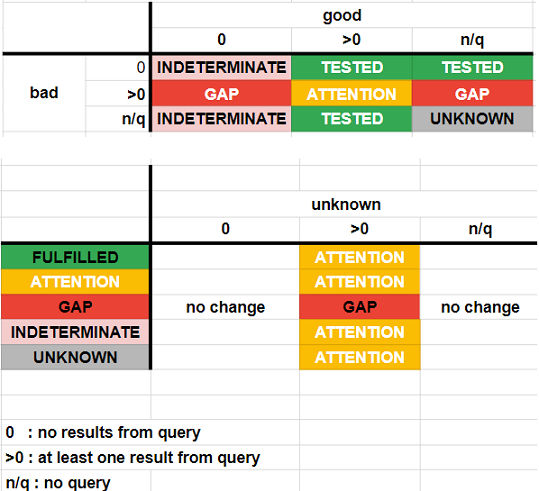
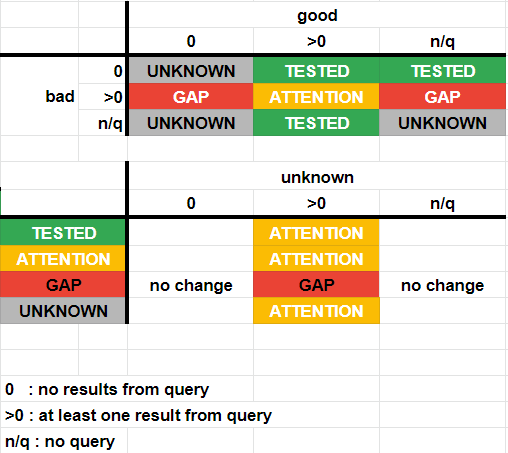
Update main (#342)
* graph-veracode -> graph-veracode-v2

* Copy edits

* update veracode docs

* renaming to pull in edits made in closed pr

* resolved merge conflicts and rolled back vera v2

* reimport veracode docs after graph-veracode update

* Add May 2nd Release Notes

* Add Janus release notes

* Updates from Henry

* fixed typo

* Add integrations release notes

* Minor edits

* Update and rename 2022-MAY-2.md to 2022-MAY-6.md

* Updating Compliance Documentation -Doc 77 (#335)

* DOC-77 DOC-78

* Updates

* New images.

* chips

* DOC-77 Updates

diff --git a/knowledgeBase/compliance_and-reporting/compliance-gap-analysis.md b/knowledgeBase/compliance_and-reporting/compliance-gap-analysis.md
@@ -1,25 +1,30 @@
 # Compliance Gap Analysis
 
-The J1 Compliance app performs automated gap analysis based on the queries saved in questions that you have added as evidence to meeting compliance. At any time, you can review where the gaps are in your compliance by clicking the information icon next to gap analysis in a selected framework.
+Compliance gaps are defined as deficiencies in the security framework of your organization between fulfilled compliance requirements and outstanding remediation.
 
-If you have access to the Compliance app, you have access to the gap analysis view. If you do not have access to the Compliance app, your J1 administrator can grant you access to the gaps table by adding a special, read-only permissions role to the group permissions for group to which you belong. With this role, you can see the compliance gap information but are not able to perform any other actions in the Compliance app.  
+Your compliance department, your compliance officer, or security lead decides the security frameworks with which your organization must be compliant. Frameworks comprise benchmarks, standards, and security questionnaires as part of your comprehensive compliance program. 
 
+You have compliance gaps when:
 
+- There is no external evidence (such as notes, links, file uploads) that you have completed a framework requirement.
+- There are J1QL question queries whose results show there is no evidence that a framework requirement is complete.
 
+At any time, you can review where the gaps are in your compliance by clicking the information icon next to gap analysis in a selected framework.
 
-![](../assets/compliance-gap-analysis.png)
+## Accessing Gap Analysis
 
-
+If you have access to J1 Compliance, you have access to the gap analysis view. If you do not have access to J1 Compliance, your J1 administrator can grant you access to the gaps table by adding a special, read-only permissions role to the group permissions for group to which you belong. With this role, you can see the compliance gap information but are not able to perform any other actions in J1 Compliance.  
 
 From the selected framework details view, click the filter icon next to the gap category to see where the gaps are in your compliance status. 
 
 
+
 ![](../assets/compliance-gaps.png)
 
-Each query in a saved question has a property to indicate whether the results from the query are good, bad, unknown, or informative. You can configure this property in the 
-J1Query Language app UI or via the J1 API.
 
-At the API level, this is set with the `resultsAre` property. For example:
+Each query in a saved question has a property to indicate whether the results from the query are good, bad, unknown, or informative. You can configure this property in the J1Query Language UI or via the J1 API.
+
+At the API level, this value is set with the `resultsAre` property. For example:
 
 ```yaml
 - id: managed-question-access-password-policy
@@ -49,8 +54,7 @@ At the API level, this is set with the `resultsAre` property. For example:
 
 ## Gap Analysis Queries
 
-Queries with the `resultsAre` property in a question that is mapped to a compliance
-requirement trigger automated gap analysis, as follows:
+Queries with the `resultsAre` property in a question that is mapped to a compliance requirement trigger automated gap analysis, as follows:
 
 - `GOOD`:
 
@@ -82,41 +86,6 @@ requirement trigger automated gap analysis, as follows:
   Find DataStore with classification=undefined
   ```
 
-`INFORMATIVE` queries are not used in compliance gap analysis.
+`INFORMATIVE` queries are not used in compliance gap analysis. A question can have one or all of the above named queries.
 
-A question can have one or all of the above named queries.
-
-## Gap Analysis Status
-
-The gap analysis status of each requirement of control can be one of the
-following:
-
-- `TESTED`
-
-  The requirement is fulfilled and monitoring.
-
-- `ATTENTION`
-
-  Potential remediation is needed because J1 has detected a potential gap, 
-  with a mix of properly configured resources and misconfigurations, such 
-  as partially fulfilled.
-
-- `GAP`
-
-  A control gap is detected with no properly configured resources identified.
-
-- `UNKNOWN`
-
-  Manual review is needed because J1 was unable to auto-determine the
-  status with the queries provided.
-
-  This status also appears when the requirement or control has no mapped query question _and_ no external evidence provided.
-
-The status is determined by the presence and output of the named queries in the
-mapped questions, as shown in this matrix:
-
-![](../assets/compliance-query-gap-analysis-status-2.png)
-
-
-
-**Note**: A single query in a question without the `resultsAre` property set is implicitly interpreted as a `GOOD` query.
+[Read more about gap analysis statuses](./compliance-status.md).

diff --git a/knowledgeBase/compliance_and-reporting/compliance-status.md b/knowledgeBase/compliance_and-reporting/compliance-status.md
@@ -1,0 +1,80 @@
+# Compliance Status and Maturity
+
+The J1 Compliance Status view provides measurements and status indicators at four different maturity levels for each compliance framework and its requirements and controls:
+
+- Documented policies and procedures
+- Implementation evidence, either via data-driven queries or external evidence
+- Gap analysis between fulfilled requirements and outstanding remediation
+- Continuous monitoring and remediation
+  
+
+![](../assets/compliance-summary-status-bars.png)
+
+
+
+## Status Symbols
+
+The J1 Compliance UI uses status symbols to help you quickly scan your compliance status view to see the level of compliance for each of the frameworks in your environment. Click any of the requirements under a framework to see those statuses.
+
+![](../assets/compliance-status-overview.png)
+
+
+
+### Requirements and Evidences Statuses
+
+Compliance is measured by requirements and evidence that you have met those requirements. The different statuses indicate where action and attention is needed.
+
+| Symbol                                   | Meaning                                  |
+| ---------------------------------------- | ---------------------------------------- |
+| ![](../assets/compliance-attention-white.png) | Potential remediation is needed because J1 has detected a potential gap in compliance. |
+| ![](../assets/compliance-evidences.png)  | Linked evidence files provide proof of compliance. |
+| ![](../assets/compliance-evidences-grey.png) | No linked evidence files to prove compliance. |
+| ![](../assets/compliance-unknown.png)    | A manual review of a compliance issue is necessary. |
+| ![](../assets/compliance-gap-white.png)  | There are [gaps in your compliance](../compliance-gap-table.md) that you must remove. |
+| ![](../assets/compliance-tested-white.png) | The framework requirement is complete and being monitoring. |
+| ![](../assets/compliance-unknown.png)    | A manual review of a compliance issue is necessary. |
+
+Click any of these symbols from the frameworks view to see more details about the status.
+
+If you see the ![](../assets/compliance-scoped.png)symbol next to a framework, it indicates that filters are applied to this framework to narrow the scope of what the linked evidence looks at.
+
+
+
+## Query Statuses
+
+If there are compliance gaps in the results of any of the queries in linked questions, these gaps also have color-coded statuses.
+
+| Symbol                                   | Meaning                                  |
+| ---------------------------------------- | ---------------------------------------- |
+| ![](../assets/compliance-attention-white2.png) | You may potentially have items to remediate |
+| ![](../assets/icons/compliance-gap-grey.png) | You must remove these gaps in your compliance |
+|                                          | All controls are in place and being monitored by J1 |
+| ![](../assets/icons/compliance-unknown-grey.png) | Manual review of a compliance issue is necessary |
+
+You can also use J1QL to query each framework requirement or control, which return similar statuses:
+
+- `TESTED`
+
+  The framework requirement is complete and being monitoring.
+
+- `ATTENTION`
+
+  Potential remediation is needed because J1 has detected a potential gap, with a mix of properly configured resources and misconfigurations, such as partially fulfilled.
+
+- `GAP`
+
+  A control gap is detected with no properly configured resources identified.
+
+- `UNKNOWN`
+
+  Manual review is needed because J1 was unable to auto-determine the status with the queries provided.
+
+  This status also appears when the requirement or control has no mapped query question _and_ no external evidence provided.
+
+The status is determined by the presence and output of the named queries in the mapped questions, as shown in this matrix:
+
+![](../assets/compliance-query-gap-analysis-status-2.png)
+
+**Note**: A single query in a question without the `resultsAre` property set is implicitly interpreted as a `GOOD` query.
+
+[Watch this video](https://try.jupiterone.com/blog/video-managing-grc-with-jupiterone) for more information about managing compliance with automated policies and procedures.

diff --git a/knowledgeBase/compliance_and-reporting/compliance-overview.md b/knowledgeBase/compliance_and-reporting/compliance-overview.md
@@ -2,16 +2,16 @@
 
 JupiterOne empowers your cybersecurity and GRC teams with a centralized, compliance-as-code solution that automatically gathers evidence to support compliance needs and processes. JupiterOne gives you continuous compliance capabilities, leading to stronger security that goes beyond a single point in time.
 
-The JupiterOne Compliance app is a flexible platform for you to import and manage any compliance standard or framework as a set of controls or requirements. 
+J1 Compliance is a flexible platform for you to import and manage any compliance standard or framework as a set of controls or requirements. 
 
 ## Getting Started with J1 Compliance
 
 The first step in managing compliance is adding the security frameworks to which your organization wants to be compliant. Frameworks comprise benchmarks, standards, and security questionnaires.
 
-By default, J1 applies requirements to each framework to which you can then add data-driven compliance evidence and link to controls. See the J1 data model for GRC for further context
+By default, J1 applies requirements to each framework to which you can then add data-driven compliance evidence and link to controls. See the [J1 data model for GRC](../jupiterOne-data-model/org-grc.md) for further context.
 
 
-You can use the J1 Compliance app for each step in the security compliance workflow:
+You can use  J1 Compliance for each step in the security compliance workflow:
 
 - [Select security frameworks](./compliance-import.md) 
 - [Add data-driven compliance evidence](./compliance-mapping-evidence.md) 
@@ -19,23 +19,6 @@ You can use the J1 Compliance app for each step in the security compliance workf
 - [Link policies and procedures](./compliance-mapping-policies.md)
 - [Perform automated gap analysis](./compliance-gap-analysis.md)
 - [Export compliance artifacts](./compliance-export.md)
+- [Review compliance status and maturity](./compliance-status.md) 
 
 
-See, also, the [J1 data model for GRC](../jupiterOne-data-model/org-grc.md) for further context.
-
-
-## Compliance Status and Maturity
-
-The JupiterOne Compliance app Status view provides measurements and status indicators at four 
-different maturity levels for each compliance framework and its requirements and controls:
-
-- Documented policies and procedures
-- Implementation evidence, either via data-driven queries or external evidence
-- Gap analysis between fulfilled requirements and outstanding remediation
-- Continuous monitoring and remediation
-  
-
-![](../assets/compliance-summary-status-bars.png)
-
-
-[Watch this video](https://try.jupiterone.com/blog/video-managing-grc-with-jupiterone) for more information about managing compliance with automated policies and procedures.

diff --git a/knowledgeBase/compliance_and-reporting/compliance-import.md b/knowledgeBase/compliance_and-reporting/compliance-import.md
@@ -29,3 +29,27 @@ If you want to import a compliance standard specification from a CSV file, the C
 - `ID`
 - `Requirement` or `Control`
 - `Section` or `Domain`
+
+## Filter on Scope
+
+When you select the frameworks with which you want to be compliant, you can narrow the scope by using filters. You can determine what J1 monitors for compliance to save time and resources.
+
+![](../assets/compliance-scope-filters.png)
+
+
+
+You can filter on:
+
+- `_type`:  Type of asset, such as datastore or persons
+- `_class`:  Class of asset, such as____________
+- `_integrationClass`:  Category of integration, such as Data Loss Prevention or App Hosting
+- `_integrationType`:  Type of integration, such as ____________
+- `integrationInstanceId`:  Your integration account ID
+- A custom filter of your own
+  
+
+![](../assets/compliance-add-filters.png) 
+
+
+
+After you set the filters, they take effect the next time J1 evaluates the framework requirements.
